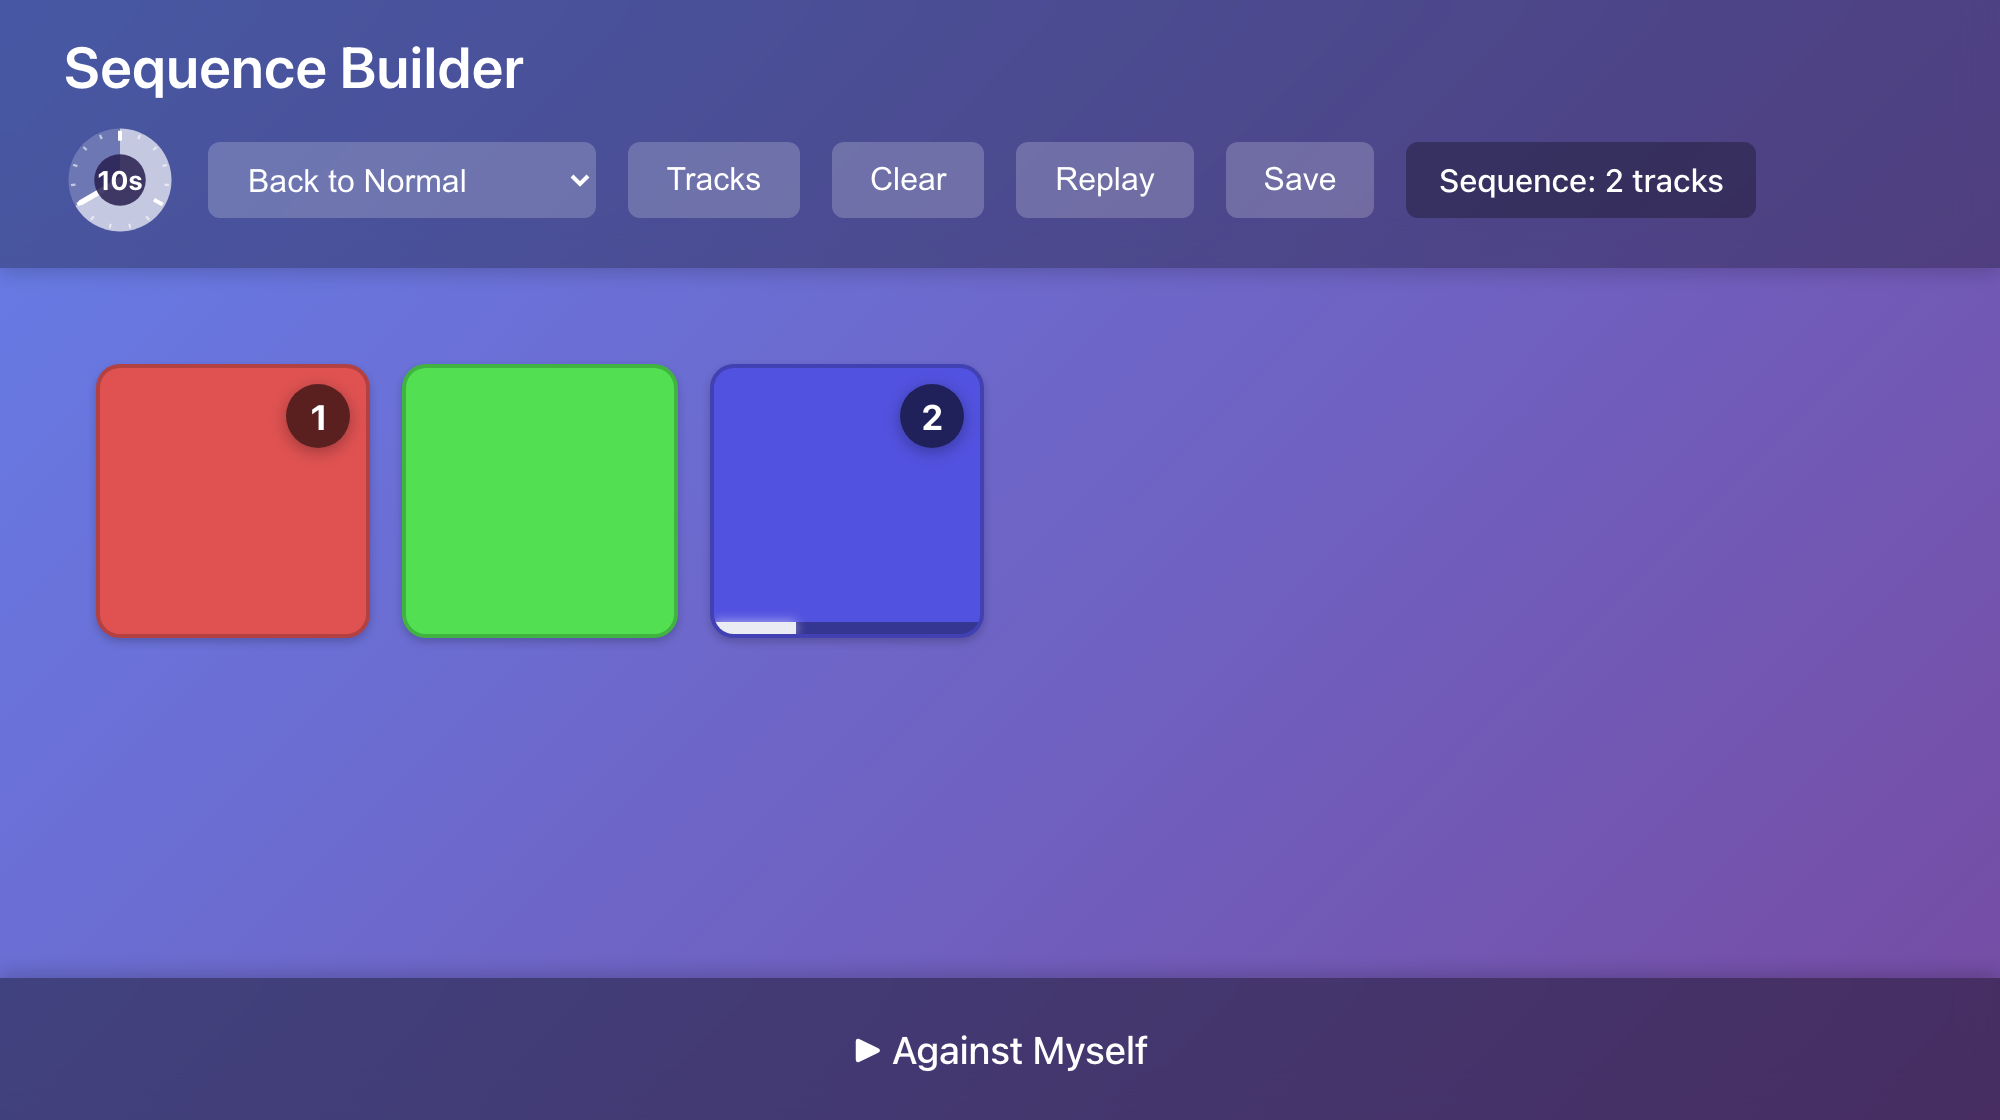
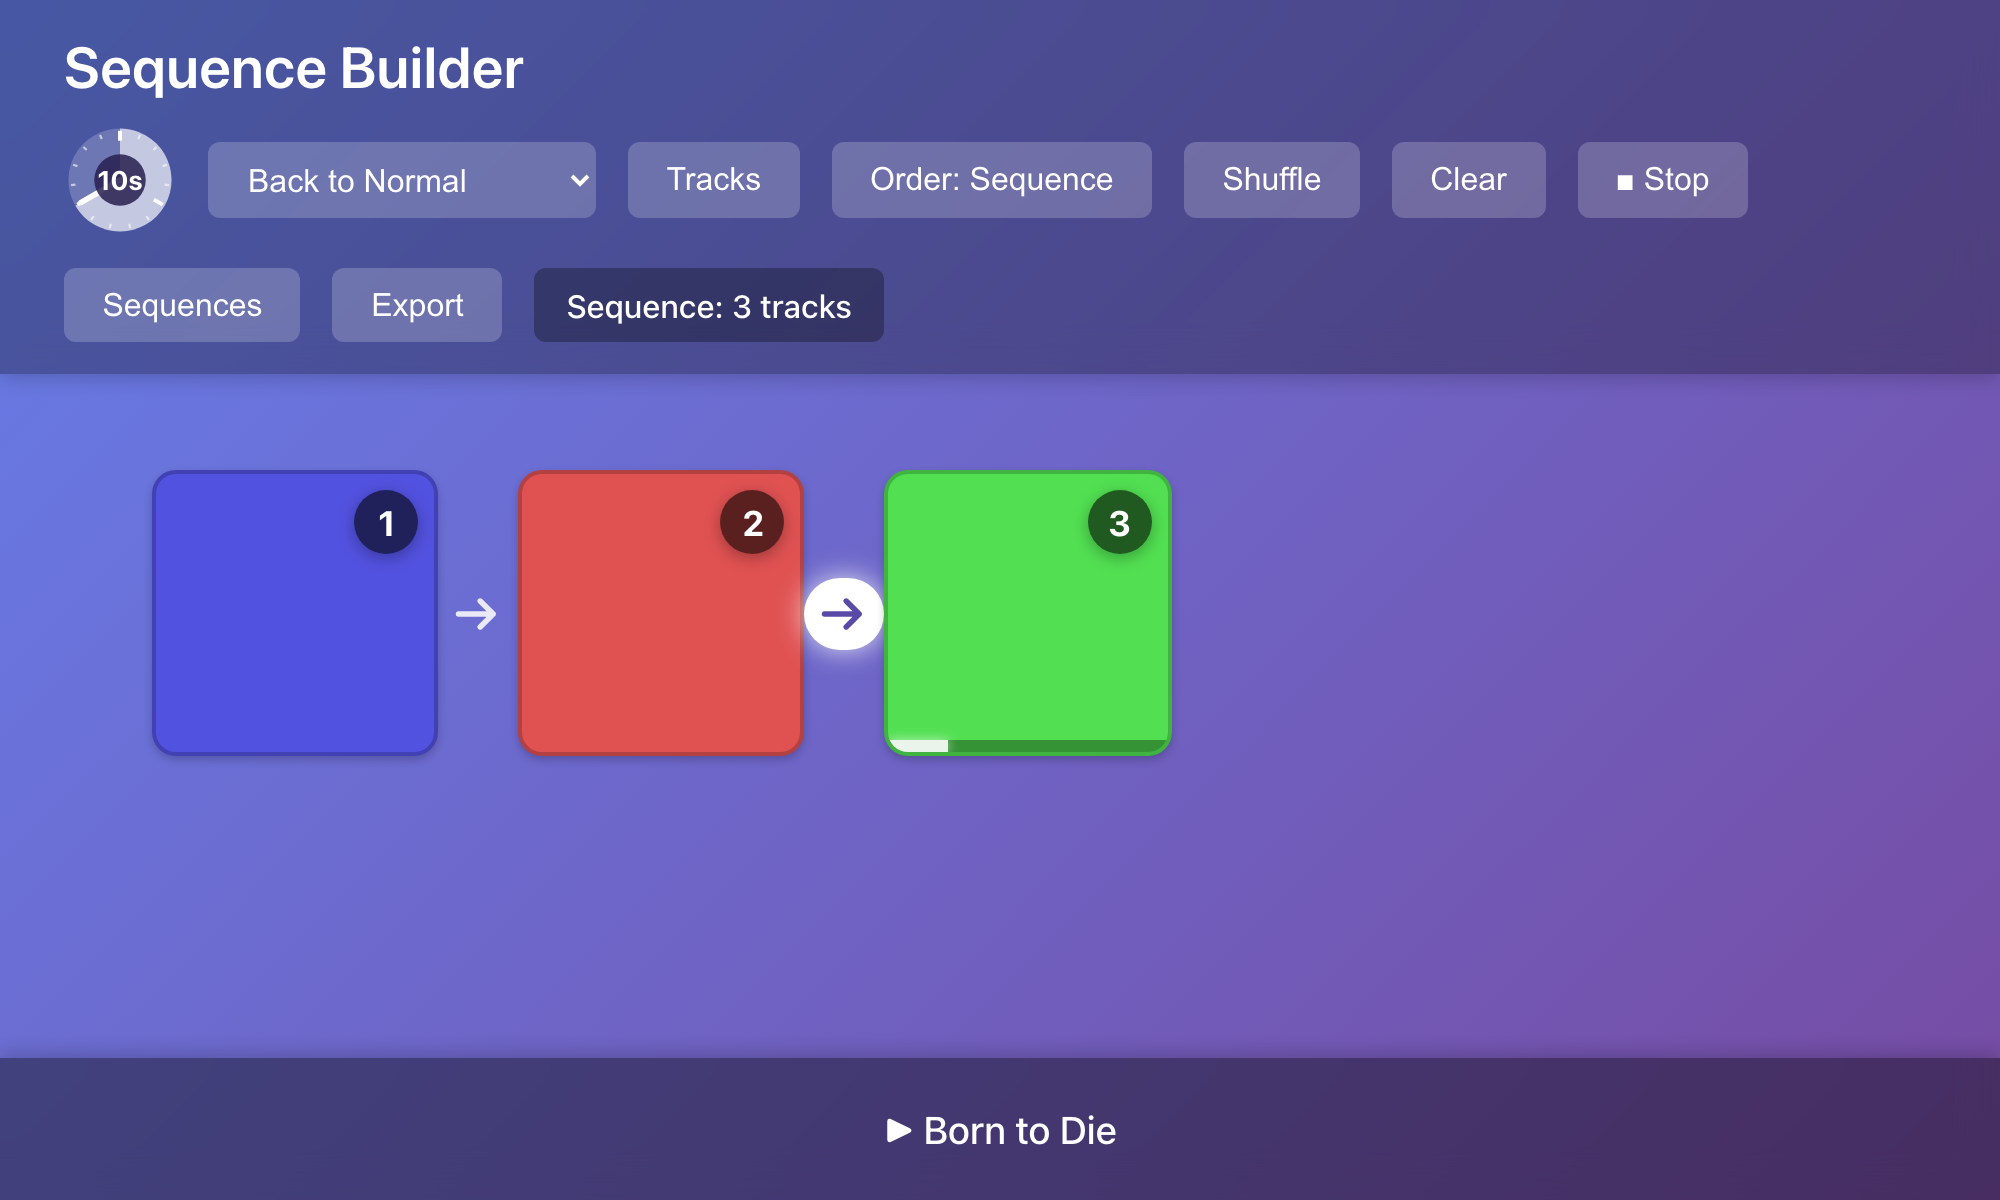
sequence-builder: document the new ways to work with transitions
README: the features and the usage steps (runs of transitions and
picking, the arrows of sequence order, shuffle, saved sequences, Stop),
a new main screenshot in sequence order with an arrow playing, and one
of a run in progress. CLAUDE.md: what plays and how it stops, grid
order and arrows, runs, saved sequences and export.

Also: the header said "1 tracks".

Changed region(s): [[0.0, 0.0312, 1.0, 0.6562], [0.0, 0.875, 1.0, 0.9688]]

diff --git a/sequence-builder/src/App.tsx b/sequence-builder/src/App.tsx
@@ -443,7 +443,7 @@ function App() {
                 Export
               </button>
               <span className="sequence-count">
-                Sequence: {sequence.length} tracks
+                Sequence: {sequence.length} track{sequence.length === 1 ? '' : 's'}
               </span>
             </>
           )}

diff --git a/sequence-builder/CLAUDE.md b/sequence-builder/CLAUDE.md
@@ -38,9 +38,10 @@ When curating playlists, DJs and music enthusiasts need to test how tracks trans
 
 - **types.ts** — TypeScript type definitions for Track, Playlist, Album, AudioSegments
 - **api.ts** — Reads the suite's albums (`albums.json`, album files) and resolves track URLs
-- **App.tsx** — Main container, album chooser, manages sequence state and saving
-- **TrackGrid.tsx** — Grid display of colored tiles with hover titles
-- **TrackTile.tsx** — Individual tile component with color, sequence number, hover state
+- **App.tsx** — Main container, album chooser, sequence state, what is playing (`playing`, `run`, `stopAll`), shuffle, picking, export
+- **TrackGrid.tsx** — Grid of tiles in display order; in sequence order the transition arrows and the divider; the menu of runs (`TryMode`)
+- **TrackTile.tsx** — Individual tile: color, sequence number, progress, its run button, source outline
+- **savedSequences.ts** / **SequencesPopup.tsx** — Sequences saved by name in localStorage, per album, and the popup to save/load/delete them
 - **PreviewDial.tsx** — Preview length control, an analog 15-second timer face (also defines MIN/MAX_PREVIEW)
 - **SequencePlayer.ts** — Audio playback engine, manages segment loading and playback
 - **AudioSegmentLoader.ts** — Loads specific time ranges using HTTP Range requests
@@ -139,16 +140,45 @@ When `stop()` is called, it increments the session ID, causing all running async
 
 ### Interaction Modes
 
+What plays is one state in App, `playing`: `'build' | 'transition' | 'replay' |
+'audition'` (null when idle). Everything that plays goes through `run(kind,
+fn)`, which only clears the state if no newer play replaced it; `stopAll()`
+stops anything. While something plays, Replay becomes **■ Stop**; Esc stops too.
+`AudioSegmentLoader.stopCurrentSource()` settles the promise of the segment it
+stops, so a stopped replay or run returns (before, it hung and left Replay
+disabled).
+
 **Build Mode** (default):
 - Click tile → plays its ending (the preview length, 10 s by default), adds to sequence
 - Click next tile → plays previous end + new beginning (transition test)
+- Clicking the last tile of the sequence undoes it, even while playing
 - Tiles show sequence numbers (1, 2, 3...)
+- **Shuffle** reorders the sequence (an empty one becomes a random order of all
+  tracks); it never gives the current order back
 
 **Replay Mode**:
 - Click "Replay" → plays full sequence with transitions
 - Currently playing tile highlights
 - Track title displays at bottom
 - Auto-advances through sequence
+
+**Grid order**: a toggle (remembered, `sequence-builder:grid-order`) shows the
+album's order or the sequence first, in its order, then the others. Colors
+follow the album position (`DisplayedTrack.index`), so a track never changes
+color. Only in sequence order: an **arrow** between each two consecutive
+sequence tracks plays that one transition (lit while it plays), and a dashed
+divider ends the sequence. The arrows live in the widened column gap (the one
+before a row-starting tile in the left padding), not in the tiles, so tile
+clicks are unchanged.
+
+**Runs of transitions** (`'audition'`): a tile's fan button opens a menu — try
+its ending into **all other tracks** or the **remaining** ones (not in the
+sequence) — and `SequencePlayer.playTransitionsFrom` plays source end →
+candidate start for each, in the grid's order. The source is outlined, the
+candidate highlighted, the footer shows the pair, the count and **Skip**
+(`skip()` moves on even mid-way through the source's ending). Clicking a tile
+during a run **picks** it: it goes right after the source (which joins the
+sequence first if needed), nothing replays; clicking the source only stops.
 
 ### Preview Length
 
@@ -172,9 +202,12 @@ Formula: `hsl(${(index * 360 / totalTracks) % 360}, 70%, 60%)`
 
 ### Saving
 
-Export formats:
-1. **Ordered playlist JSON** — New JSON file with tracks in sequence order
-2. **Sequence metadata** — Track indices/URLs for later reference
+- **Sequences** (popup): save the sequence under a name, load or delete saved
+  ones. Kept in this browser, localStorage `sequence-builder:sequences:<album>`,
+  by `sourceUrl`. Loading asks first only if the current sequence is not one of
+  the saved ones; tracks no longer in the album are left out with a message.
+- **Export**: downloads the sequence as an album-shaped JSON (see above),
+  titled and named after the sequence's name once it has one.
 
 ## File Locations
 
@@ -200,7 +233,7 @@ Export formats:
 - Waveform visualization of segments
 - BPM detection for better matching
 - Drag-and-drop reordering
-- Multiple sequence slots (A/B comparison)
+- Runs of transitions *into* a track (what could come before it)
 - Export to M3U/PLS formats
 
 ## Dependencies

diff --git a/sequence-builder/README.md b/sequence-builder/README.md
@@ -2,7 +2,7 @@
 
 A track transition tester for playlist curation. Test how tracks flow together by listening to endings and beginnings without loading entire files.
 
-![Testing a transition on the demo album "Back to Normal", with the preview-length dial at 10 s: the first track's ending has played (tile 1), the third track was clicked as number 2 and its beginning is now playing — the progress bar fills along the bottom of its tile and the footer shows "▶ Against Myself"](docs/screenshots/main-view.png)
+![The demo album "Back to Normal" in sequence order, preview dial at 10 s: three tracks with an arrow between each two; the arrow from 2 to 3 is lit because just that transition is playing — track 3's beginning fills its progress bar and the footer shows "▶ Born to Die"](docs/screenshots/main-view.png)
 
 ## Features
 
@@ -10,7 +10,11 @@ A track transition tester for playlist curation. Test how tracks flow together b
 - ⏱ **Preview Length**: 5 to 15 seconds, set on a small timer dial
 - 🎨 **Colorful Grid**: Visual, easy-to-navigate track display
 - ▶ **Transition Testing**: Click tracks to hear how they flow together
+- 🔀 **Try Many at Once**: Hear one track's ending into every other (or every remaining) track, and pick the one you like
+- ➡ **One Transition**: In sequence order, an arrow between two tracks plays just their transition
 - 🔄 **Replay Mode**: Review your entire sequence with visual feedback
+- 🎲 **Shuffle**: A random order for the sequence, or for the whole album
+- 📌 **Saved Sequences**: Keep sequences by name in your browser and come back to them
 - 💾 **Export**: Save your curated sequence as a new playlist JSON
 
 ## Quick Start
@@ -33,8 +37,13 @@ Vite will automatically open [http://localhost:3000](http://localhost:3000) in y
 3. **Build a Sequence**: Click tiles to add tracks to your sequence
    - First click: Plays the track's ending
    - Subsequent clicks: Plays transition (previous ending → new beginning)
-4. **Review**: Click "Replay" to hear the full sequence with visual highlighting
-5. **Save**: Export your sequence as a new playlist JSON file
+   - Click the last track again to undo it
+4. **Find what comes next**: Hover a tile and click its fan button, then *All other tracks* or *Remaining tracks*: its ending plays into each candidate's beginning in turn (**Skip** moves on). Click the one you like to put it right after
+5. **Order**: Switch *Order: Album / Sequence*. In sequence order, click the arrow between two tracks to hear just that transition; **Shuffle** tries a random order
+6. **Review**: Click "Replay" to hear the full sequence with visual highlighting (**■ Stop** or Esc stops anything)
+7. **Keep it**: *Sequences* saves it by name in this browser, to load again later; **Export** downloads it as a playlist JSON file
+
+![A run of transitions: the first track (dashed outline) is tried into each of the others in turn; the second candidate is highlighted while its beginning plays, and the footer shows "Big Three → Against Myself · 2 / 2" with a Skip button and "Click a tile to pick it"](docs/screenshots/run.png)
 
 ## Albums
 
